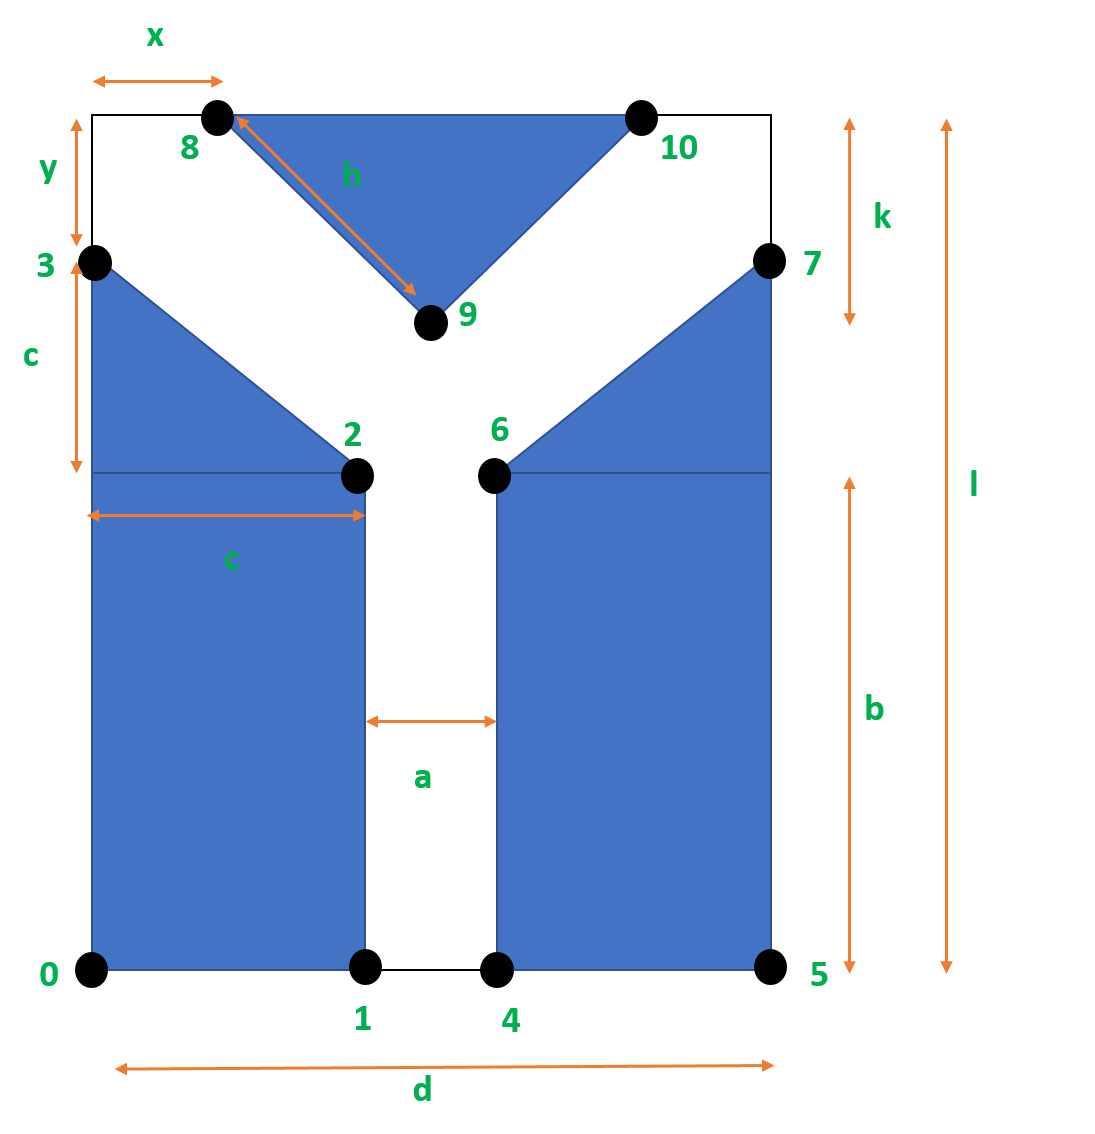
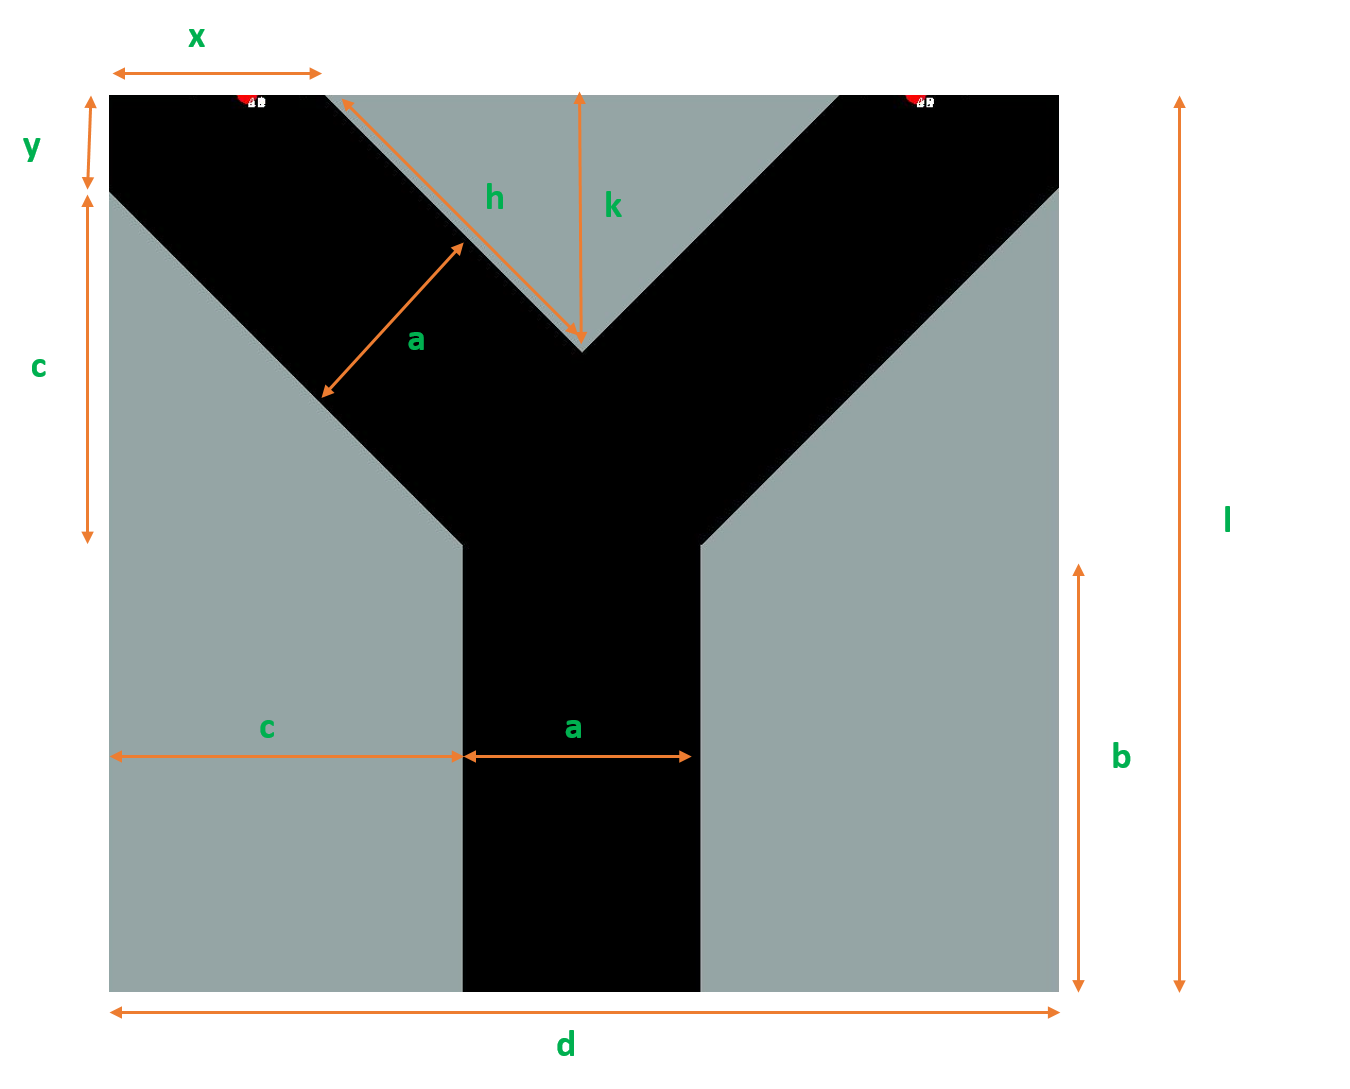
salles en y

diff --git a/ModelisationPhysique/src/simulation.py b/ModelisationPhysique/src/simulation.py
@@ -64,10 +64,10 @@ class ConstructeurSalle(object):
             porte_largeur=None,
             porte_position=None):
 
-        zone_apparition['x_min'] = 50
-        zone_apparition['x_max'] = 50 + salle_largeur
-        zone_apparition['y_min'] = 50
-        zone_apparition['y_max'] = 50 + salle_hauteur
+        zone_apparition.update({'x_min' :  50})
+        zone_apparition.update({'x_max' : 50 + salle_largeur })
+        zone_apparition.update({'y_min' :  50 })
+        zone_apparition.update({'y_max' :  50 + salle_hauteur })
         
         
         espace.ajouterLieuFerme(LieuFerme(
@@ -90,10 +90,10 @@ class ConstructeurSalle(object):
         rectangles.append({"largeur" : largeur, "hauteur" : hauteur,"position" : coin_inferieur1})
         rectangles.append({"largeur" : largeur, "hauteur" : hauteur,"position" : coin_inferieur2 })
         
-        zone_apparition['x_min'] = 50 + largeur
-        zone_apparition['x_max'] = coin_inferieur2[0]
-        zone_apparition['y_min'] = 50
-        zone_apparition['y_max'] = (50 + hauteur)*(2/3)
+        zone_apparition.update({'x_min' :  50 + largeur})
+        zone_apparition.update({'x_max' :  coin_inferieur2[0]})
+        zone_apparition.update({'y_min' :  50})
+        zone_apparition.update({'y_max' :  (50 + hauteur)*(2/3)})
         
         
         
@@ -123,14 +123,14 @@ class ConstructeurSalle(object):
         
         polygones.append({'position' : origine, 'sommets' : bordDroit})
        
-        triangle = [[x,l],[d-x,l],[d/2,k]]
+        triangle = [[x,l],[d-x,l],[d/2,l-k]]
         
         polygones.append({'position' : origine, 'sommets' : triangle})
         
-        zone_apparition['x_min'] = 50 + c
-        zone_apparition['x_max'] = 50 + c+a
-        zone_apparition['y_min'] = 50
-        zone_apparition['y_max'] = (50 + b)*(2/3)
+        zone_apparition.update({'x_min' : 50 + c} )
+        zone_apparition.update({'x_max' : 50 + c+a} )
+        zone_apparition.update({'y_min' : 50} )
+        zone_apparition.update({'y_max' : (50 + b)*(2/3)})
         
     
     def ajouterObstacles(self, espace, particulier):
@@ -160,10 +160,10 @@ class ConstructeurSalle(object):
         position_droit_y = position_debut_droit
         
         #on définit la zone d'apparition des personnes
-        zone_apparition['x_min'] = 50 
-        zone_apparition['x_max'] = 50 + self.espace.lieu_ferme.largeur
-        zone_apparition['y_min'] = 50 + min(position_debut_gauche + hauteur, position_debut_droit + hauteur) 
-        zone_apparition['y_max'] = 50 + self.espace.lieu_ferme.hauteur
+        zone_apparition.update({'x_min' :  50})
+        zone_apparition.update({'x_max' :  50 + self.espace.lieu_ferme.largeur})
+        zone_apparition.update({'y_min' :  50 + min(position_debut_gauche + hauteur, position_debut_droit + hauteur)}) 
+        zone_apparition.update({'y_max' :  50 + self.espace.lieu_ferme.hauteur})
 
         #on ajoute les ranges de gauche
         while position_gauche_y + 50 <= self.espace.lieu_ferme.hauteur :
@@ -192,7 +192,7 @@ class ConstructeurSalle(object):
 
             position_droit_y += distance_intermediaire + hauteur
             
-        zone_apparition['y_max'] = 50 + min(position_droit_y, position_gauche_y) - distance_intermediaire - hauteur
+        zone_apparition.update({y_max :  50 + min(position_droit_y, position_gauche_y) - distance_intermediaire - hauteur})
 
 
 class ConstructeurSimulation(object):

diff --git a/ModelisationPhysique/src/avoirDebitMoyenGeneral.py b/ModelisationPhysique/src/avoirDebitMoyenGeneral.py
@@ -1,0 +1,76 @@
+Identifiant ????, taille(longxlarg), type de salle, nombre personnes de départ, (sorties,taille des sorties) , (générateurs de personnes, debit de personnes)
+--> identifiant -> % -> debit
+
+
+##
+
+def creerConfiguration(taille, type_de_salle, nombre_de_personnes, infos_sorties, info_generateurs):
+    configuration = {
+        "type": "",
+    
+        "lieu_ferme": {
+            "salle": {},
+            "porte": [],
+            "salle_couloir": {}
+        },
+        "obstacles": {
+            "rangs" : {},
+            "particulier" : {
+                "rectangles": [],
+                "cercles" : [],
+                "polygones": []
+            }
+        },
+        "personnes": {
+            "zone_apparition" : {},
+            "sources": [],
+            "caracteristiques": {
+                    "rayon_min" : 18,
+                    "rayon_max" : 21,
+                    "masse_surfacique" : 1.8
+            },
+        
+        },
+        "mise_a_jour_par_seconde": 60
+    }
+    
+    configuration.update({'type' : type_de_salle})
+    configuration['lieu_ferme']['salle'].update({'salle_hauteur' : taille[0], 'salle_largeur' : taille[1]})
+    configuration['personne'].update({'nombre' : nombre_de_personnes})
+    for sortie in info_sorties :
+        configuration['lieu_ferme']['porte'].append({'position' : sortie[0] , 'largeur' : sortie[1] , 'mur' : sortie[2]})
+        
+    for source in info_generateurs : 
+        configuration['personnes']['caracteristiques'] = pers
+        configuration['personnes']['sources'].append({'position' : source[0],
+                                                    'periode' : source[1],
+                                                    'rayon_min' : pers['rayon_min'],
+                                                    'rayon_max' : pers['rayon_max'],
+                                                    'masse_surfacique' : pers['masse_surfacique']})
+        
+    return configuration
+
+def recupererMoyenne(configuration) :
+    recuperation = RecuperationDeDonnees(
+        configuration,
+        arreter_apres_temps=True,
+        temps_maximal=15)
+    recuperation.lancer()
+    traitement = TraitementDeDonnees(recuperation.temps_de_sortie)
+    return traitement.avoirDebitMoyen()
+    
+def fonction_de_transfert(infos,nb_simul):
+    sortie = [[] for _ in range (len(infos))]
+    for salle in info :
+        
+        ratio = 1
+        while ratio != 0 :
+            configuration = creerConfiguration(**salle)
+            for _ in range(nb_simul):
+                moy = 0
+                moy += recupererMoyenne(configuration)
+            moy /= nb_simul
+            sortie[id].append(moy)
+            ratio -= 0.2
+        
+            

diff --git a/ModelisationPhysique/src/FichiersTests/test_salle_classe.py b/ModelisationPhysique/src/FichiersTests/test_salle_classe.py
@@ -4,7 +4,6 @@ from convertir_json_python import convertirJsonPython
 from traitement import RecuperationDeDonnees, TraitementDeDonnees
 from affichage import Afficheur
 
-afficheur = Afficheur()
 
 configuration = convertirJsonPython(
     '../FichiersConfiguration/salle_en_Y.json')

diff --git a/ModelisationPhysique/description_des_objets/types_salles.md b/ModelisationPhysique/description_des_objets/types_salles.md
@@ -1,0 +1,6 @@
+Types de salle :
+
+'sale_vide'
+'salle_de_classe'
+'salle_en_T'
+'salle_en_Y'
